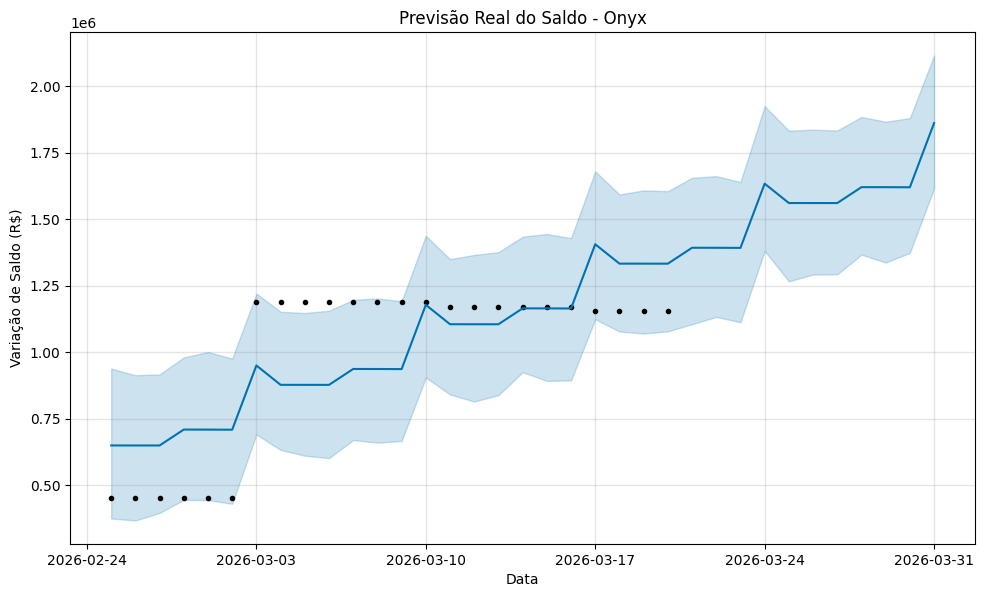
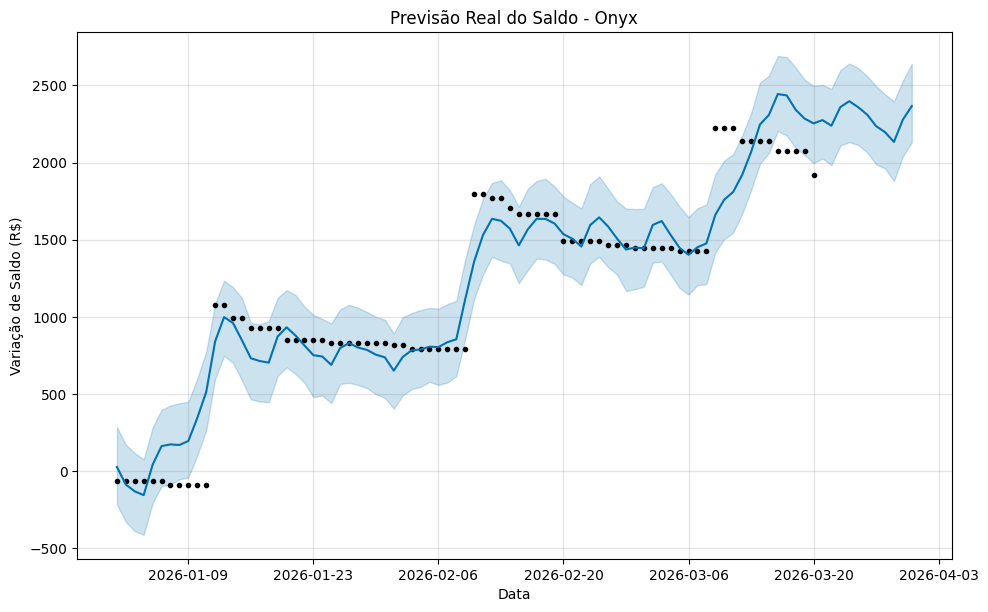
update: update testing of IA Prophet

diff --git a/teste_real_ml.py b/teste_real_ml.py
@@ -16,10 +16,10 @@ def executar_previsao_real():
     # 1. CONEXÃO COM O BANCO DE DADOS
     # ==========================================
     db = SessionLocal()
-    user_id_teste = 1  # 🚨 COLOQUE O SEU ID REAL AQUI!
+    user_id_teste = 7  # 🚨 COLOQUE O SEU ID REAL AQUI!
     
     # Pegando dados de 1º de Janeiro até Hoje
-    data_inicio = date(2026, 2, 25)
+    data_inicio = date(2026, 1, 1)
     data_fim = date.today()
 
     print("🔍 Buscando transações reais no banco...")
@@ -38,6 +38,16 @@ def executar_previsao_real():
     if not transacoes:
         print("❌ Nenhuma transação encontrada para esse usuário.")
         return
+
+    contador_externo = 0
+    for transacao in transacoes:
+        print(f'Valor: {transacao.value}. Tipo: {transacao.type_expense}. Data: {transacao.date}')
+        if(transacao.type_expense):
+            contador_externo += transacao.value
+        else:
+            contador_externo -= transacao.value
+        print(f'Saldo no momento: {contador_externo}')
+
 
     # ==========================================
     # 2. ENGENHARIA DE DADOS (Transformando em Saldo)
@@ -70,7 +80,17 @@ def executar_previsao_real():
     # 3. TREINANDO A INTELIGÊNCIA ARTIFICIAL
     # ==========================================
     print("\n🧠 Treinando o Prophet com a sua vida financeira...")
-    modelo = Prophet(daily_seasonality=True)
+    # 1. Desligamos a sazonalidade diária (não faz sentido para saldos)
+    # 2. Enfraquecemos a sazonalidade semanal para ele parar de achar que toda segunda é dia de salário
+    modelo = Prophet(
+        daily_seasonality=False, # Ninguém gasta de hora em hora de forma previsível no saldo
+        weekly_seasonality=True, # LIGADO DE NOVO! (Para pegar o efeito "gasto de final de semana" ou "Uber")
+        seasonality_prior_scale=0.1 # O TRUQUE: Deixa as variações mais suaves, evita que a IA surte com coincidências
+    )
+    
+    # Adicionamos a sazonalidade mensal firme e forte (Para o salário CLT não falhar)
+    modelo.add_seasonality(name='monthly', period=30.5, fourier_order=5, prior_scale=10.0)
+    
     modelo.fit(df_diario)
 
     # ==========================================
@@ -93,8 +113,13 @@ def executar_previsao_real():
     print("\n🔮 PREVISÃO PARA O RESTO DO MÊS:")
     for index, linha in tabela_detalhada.iterrows():
         data_formatada = linha['ds'].strftime('%d/%m/%Y')
+        
+        # Arredondando para 2 casas decimais porque é dinheiro
         oficial = round(linha['yhat'], 2)
-        print(f"📅 {data_formatada} | Aposta: R$ {oficial}")
+        pior_cenario = round(linha['yhat_lower'], 2)
+        melhor_cenario = round(linha['yhat_upper'], 2)
+        
+        print(f"📅 {data_formatada} | Aposta: R$ {oficial} -> (Pode variar de R$ {pior_cenario} até R$ {melhor_cenario})")
 
     fig = modelo.plot(previsao)
     plt.title("Previsão Real do Saldo - Onyx")
